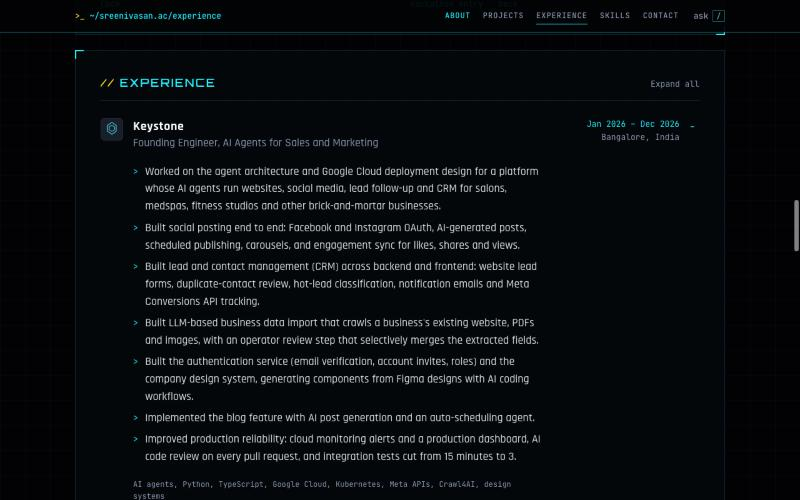
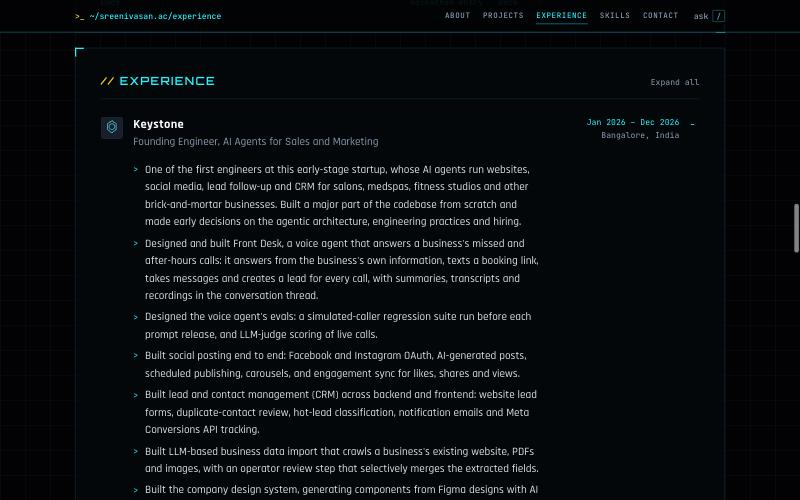
feat: revise Keystone entry with voice agent, evals and early-engineer role
- State the role: one of the first engineers, built a major part of the
  codebase from scratch, early decisions on agentic architecture,
  engineering practices and hiring.
- Add the Front Desk voice agent and its evals; remove the
  authentication service point; link keystone.app.
- Ask box: Keystone answer and keys updated (voice, evals); self-check
  extended. Refresh the experience screenshot.

diff --git a/public/js/ask.js b/public/js/ask.js
@@ -37,8 +37,8 @@
    */
   const KB = [
     {
-      keys: ['keystone', 'marketing', 'sales', 'crm', 'lead', 'leads', 'social', 'instagram', 'facebook', 'meta', 'brick', 'mortar', 'salon', 'salons', 'medspa', 'medspas', 'figma', 'auth', 'authentication'],
-      a: 'I was a founding engineer at Keystone from January to December 2026, building AI agents that run sales and marketing for brick-and-mortar businesses such as salons, medspas and fitness studios. I worked on the agent architecture and Google Cloud design, then built social posting to Facebook and Instagram with AI-generated content, lead and contact management, LLM-based import of a business\'s existing website data, the authentication service and the design system.',
+      keys: ['keystone', 'marketing', 'sales', 'crm', 'lead', 'leads', 'social', 'instagram', 'facebook', 'meta', 'brick', 'mortar', 'salon', 'salons', 'medspa', 'medspas', 'figma', 'voice', 'frontdesk', 'eval', 'evals', 'evaluation', 'evaluations'],
+      a: 'I was a founding engineer at Keystone from January to December 2026, one of the first engineers at an early-stage startup whose AI agents run sales and marketing for brick-and-mortar businesses such as salons, medspas and fitness studios. I built a major part of the codebase from scratch and made early decisions on the agentic architecture, engineering practices and hiring. My work included a voice agent that answers a business\'s missed calls, with evals for it, social posting with AI-generated content, lead and contact management, and LLM-based import of a business\'s existing website data.',
       cites: [['Keystone', 'xp-keystone']],
       next: ['Which agent systems have you built?', 'Have you led a team?', "What's your stack?"],
     },
@@ -68,7 +68,7 @@
     },
     {
       keys: ['agent', 'agents', 'agentic', 'multi', 'langgraph', 'agno', 'autonomous', 'automation', 'orchestration', 'workflow', 'workflows', 'namesmith', 'receptionist', 'organiser', 'organizer', 'vyasa', 'chatbot'],
-      a: 'At Keystone I built agents that generate and schedule social posts and blogs and follow up on leads for brick-and-mortar businesses. Outside work there are three, all with code you can read. Namesmith Agents is a LangGraph multi-agent system that takes domain names from discovery and scoring through to purchase. The file organiser is a desktop agent built with Tauri and Agno that proposes folder structures and moves files only with human approval. AI Receptionist is a booking, CRM and marketing chatbot for salons, medspas and fitness studios.',
+      a: 'At Keystone I built a voice agent that answers a business\'s missed calls, and agents that generate and schedule social posts and blogs for brick-and-mortar businesses. Outside work there are three, all with code you can read. Namesmith Agents is a LangGraph multi-agent system that takes domain names from discovery and scoring through to purchase. The file organiser is a desktop agent built with Tauri and Agno that proposes folder structures and moves files only with human approval. AI Receptionist is a booking, CRM and marketing chatbot for salons, medspas and fitness studios.',
       cites: [['Namesmith Agents', 'pj-namesmith'], ['File organiser agent', 'pj-filevyasa'], ['AI Receptionist', 'pj-receptionist'], ['Keystone', 'xp-keystone']],
       next: ['What did you build at Keystone?', 'Have you shipped RAG in production?', "What's your stack?"],
     },
@@ -94,7 +94,7 @@
     },
     {
       keys: ['startup', 'startups', 'founding', 'founder', 'brahmasumm', 'team', 'lead', 'led', 'leadership', 'mentor', 'mentoring', 'manage', 'ceo'],
-      a: 'I was the founding engineer at Brahmasumm AI, an enterprise document-intelligence startup, from November 2024 to July 2025. I built its core features end to end, including multimodal file processing, citations and knowledge-base partitioning. I also ran technical hiring, screening 240+ candidates, and worked directly with the CEO. After that I was a founding engineer at Keystone, where I also interviewed engineering candidates.',
+      a: 'I was the founding engineer at Brahmasumm AI, an enterprise document-intelligence startup, from November 2024 to July 2025. I built its core features end to end, including multimodal file processing, citations and knowledge-base partitioning. I also ran technical hiring, screening 240+ candidates, and worked directly with the CEO. After that I was one of the first engineers at Keystone, where I made early decisions on architecture and engineering practices and helped hire the team.',
       cites: [['Brahmasumm AI', 'xp-brahmasumm'], ['Keystone', 'xp-keystone']],
       next: ['Have you deployed LLMs on-prem?', 'How do I reach you?'],
     },
@@ -179,6 +179,8 @@
       'Have you led a team?': 'xp-brahmasumm',
       'What did you build at Keystone?': 'xp-keystone',
       'do you know sales and marketing agents': 'xp-keystone',
+      'have you built a voice agent': 'xp-keystone',
+      'do you write evals': 'xp-keystone',
       'where did you study': 'education',
       'tell me about fathom': 'xp-fathom',
       'tell me about yourself': 'experience',

diff --git a/src/html/experience.html b/src/html/experience.html
@@ -17,16 +17,23 @@
               <span>
                 <span class="xp-co">Keystone</span>
                 <span class="xp-role">Founding Engineer, AI Agents for Sales and Marketing</span>
-                <span class="xp-hl">AI agents that run sales and marketing for brick-and-mortar businesses: social
-                  posting, lead management and CRM, and LLM-based data import.</span>
+                <span class="xp-hl">One of the first engineers. Built AI agents that run sales and marketing for
+                  brick-and-mortar businesses, including a voice agent for missed calls.</span>
               </span>
               <span class="xp-when">Jan 2026 – Dec 2026 <span>Bangalore, India</span></span>
             </summary>
             <div class="xp-body">
               <ul>
-                <li>Worked on the agent architecture and Google Cloud deployment design for a platform whose AI
-                  agents run websites, social media, lead follow-up and CRM for salons, medspas, fitness studios and
-                  other brick-and-mortar businesses.</li>
+                <li>One of the first engineers at this early-stage startup, whose AI agents run websites, social
+                  media, lead follow-up and CRM for salons, medspas, fitness studios and other brick-and-mortar
+                  businesses. Built a major part of the codebase from scratch and made early decisions on the agentic
+                  architecture, engineering practices and hiring.</li>
+                <li>Designed and built Front Desk, a voice agent that answers a business's missed and after-hours
+                  calls: it answers from the business's own information, texts a booking link, takes messages and
+                  creates a lead for every call, with summaries, transcripts and recordings in the conversation
+                  thread.</li>
+                <li>Designed the voice agent's evals: a simulated-caller regression suite run before each prompt
+                  release, and LLM-judge scoring of live calls.</li>
                 <li>Built social posting end to end: Facebook and Instagram OAuth, AI-generated posts, scheduled
                   publishing, carousels, and engagement sync for likes, shares and views.</li>
                 <li>Built lead and contact management (CRM) across backend and frontend: website lead forms,
@@ -34,16 +41,17 @@
                   tracking.</li>
                 <li>Built LLM-based business data import that crawls a business's existing website, PDFs and images,
                   with an operator review step that selectively merges the extracted fields.</li>
-                <li>Built the authentication service (email verification, account invites, roles) and the company
-                  design system, generating components from Figma designs with AI coding workflows.</li>
+                <li>Built the company design system, generating components from Figma designs with AI coding
+                  workflows.</li>
                 <li>Implemented the blog feature with AI post generation and an auto-scheduling agent.</li>
                 <li>Improved production reliability: cloud monitoring alerts and a production dashboard, AI code
                   review on every pull request, and integration tests cut from 15 minutes to 3.</li>
               </ul>
-              <p class="tags">AI agents, Python, TypeScript, Google Cloud, Kubernetes, Meta APIs, Crawl4AI, design
-                systems</p>
+              <p class="tags">AI agents, voice agents, evals, Python, TypeScript, Google Cloud, Kubernetes, Meta
+                APIs, Crawl4AI, design systems</p>
               <p class="link-row">
                 <a href="#" class="see-more-link" data-modal="keystone">Full story</a>
+                <a href="https://keystone.app/" target="_blank" rel="noreferrer">keystone.app</a>
               </p>
             </div>
           </details>

diff --git a/public/js/company-data.js b/public/js/company-data.js
@@ -6,10 +6,22 @@ window.companyDetails = {
       <h3>AI Agents for Sales and Marketing</h3>
       <p>Keystone runs sales and marketing for brick-and-mortar businesses such as salons, medspas, wellness and fitness studios and specialty care practices. AI agents, working with human experts, manage a business's website, blog, social media, reviews, ads, leads and CRM, with approval steps before anything goes live.</p>
 
+      <h3>One of the First Engineers</h3>
+      <p>I joined this early-stage startup as one of its first engineers and built a major part of the codebase from scratch. I made early decisions on the agentic architecture and engineering practices, and helped hire the engineers who joined after me.</p>
+
+      <h3>Front Desk Voice Agent</h3>
+      <ul>
+        <li>Designed and built Front Desk, a voice agent that answers a business's missed and after-hours phone calls through call forwarding.</li>
+        <li>The agent answers questions from the business's own information and FAQs, texts a booking link on request, takes messages that are flagged for the team, and creates or updates a lead for every call.</li>
+        <li>One shared agent serves every business, with business context injected per call and a phone number provisioned automatically when an owner turns the feature on.</li>
+        <li>Each call appears in the unified conversation thread with a summary, transcript and recording playback, and feeds the same lead scoring as texts and web forms.</li>
+        <li>Compared five voice providers before choosing one, and kept the integration behind a provider-neutral adapter.</li>
+        <li>Designed the evals: a simulated-caller regression suite run before each prompt release, graded by our own checks, and LLM-judge scoring of live calls in production.</li>
+      </ul>
+
       <h3>Architecture & Platform</h3>
       <ul>
         <li>Researched agent frameworks and cloud options, and worked on the agent architecture and Google Cloud deployment design for the platform.</li>
-        <li>Built the authentication service: email verification, login and account creation, account invites and roles, and admin authentication.</li>
         <li>Built the company design system, generating components (buttons, inputs, date picker, select, modal, calendar, Markdown editor) from Figma designs with AI coding workflows and a Figma MCP connection.</li>
         <li>Built admin console screens for account creation, integrations, agent settings and data import.</li>
       </ul>
@@ -33,7 +45,7 @@ window.companyDetails = {
       </ul>
 
       <h3>Technologies Used</h3>
-      <p>Python, TypeScript, Vite, TanStack, Google Cloud, Kubernetes, Meta (Facebook and Instagram) APIs, Crawl4AI, LLM APIs, Figma MCP</p>
+      <p>Python, TypeScript, Vite, TanStack, Google Cloud, Kubernetes, Retell (voice), Twilio, Langfuse (evals and tracing), Meta (Facebook and Instagram) APIs, Crawl4AI, LLM APIs, Figma MCP</p>
     `
   },
   brahmasumm: {
